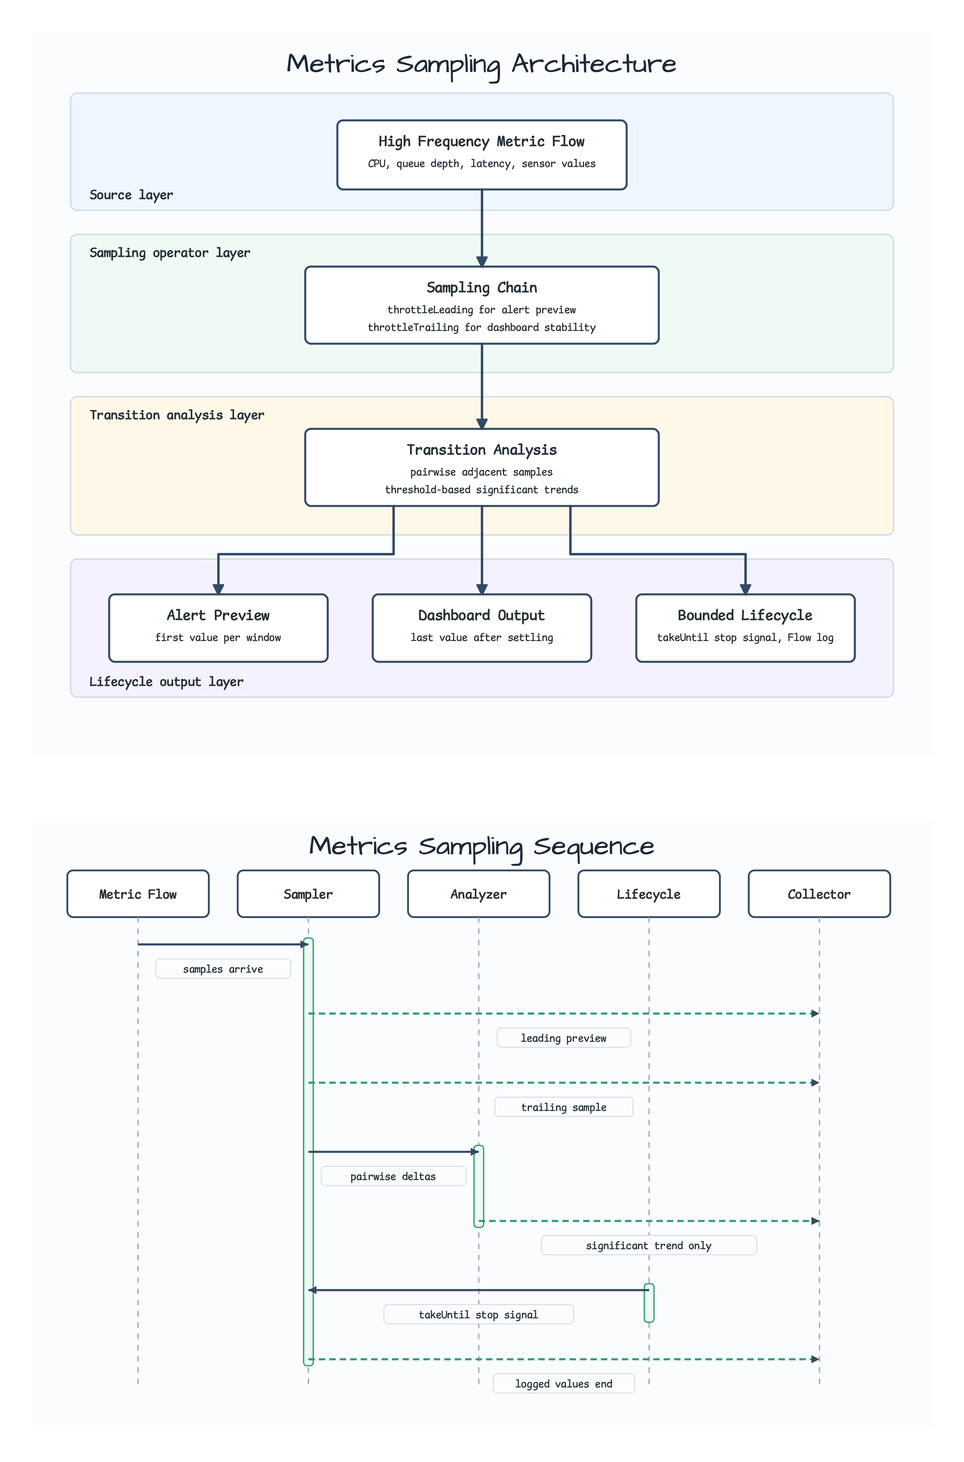
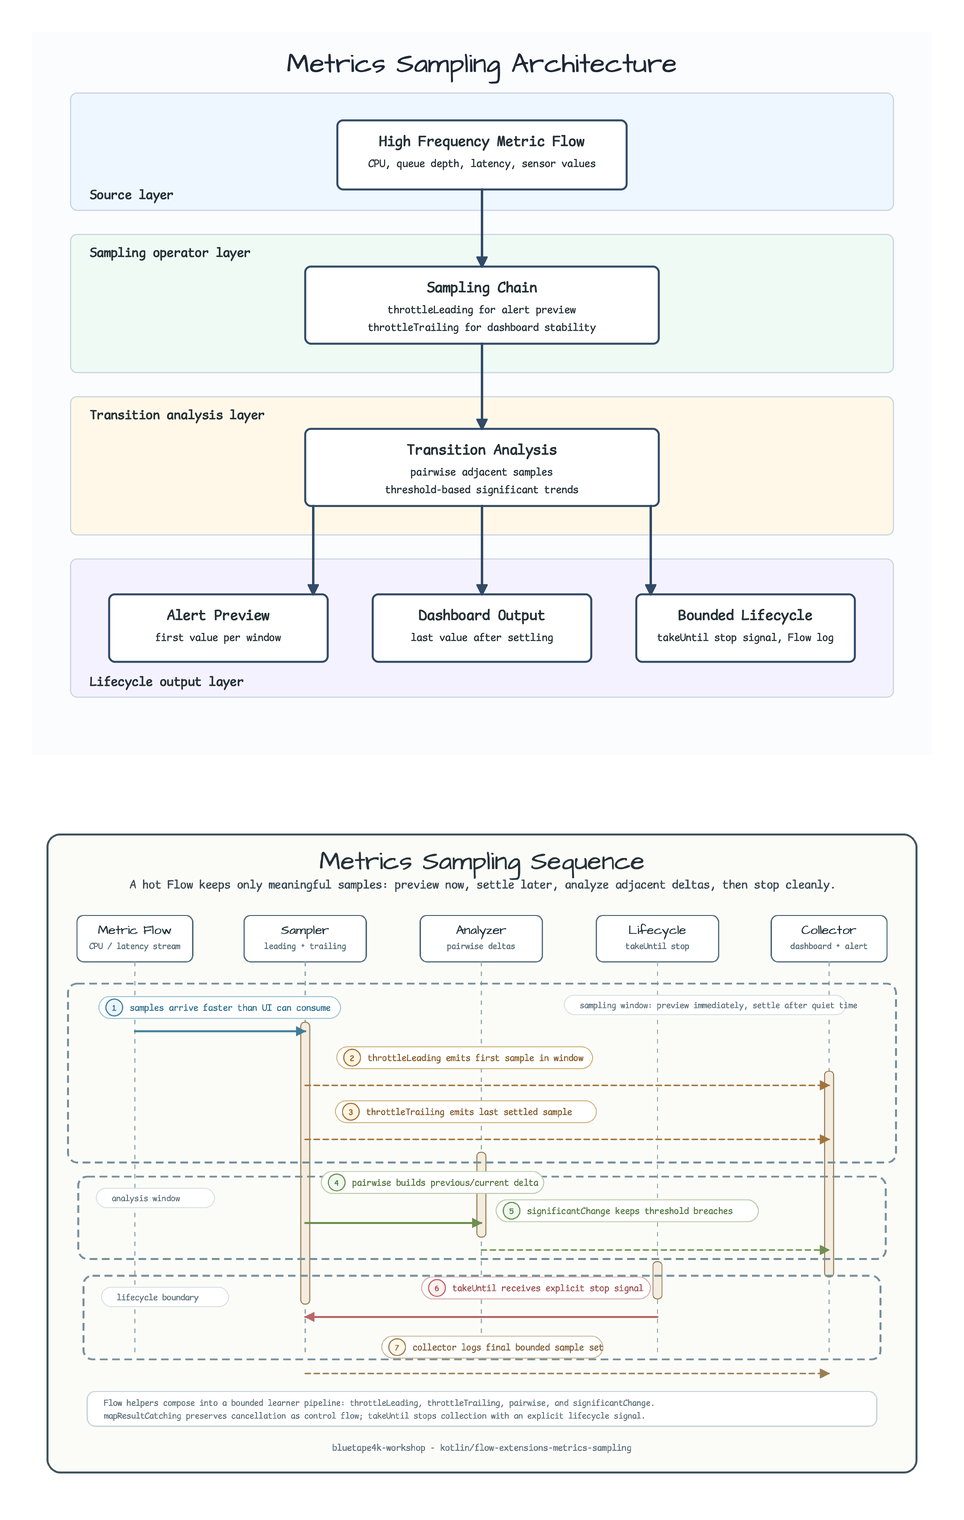
docs: align metrics diagrams with best-practices
Refresh the Flow metrics sampling diagrams so the sequence asset matches the local best-practices sequence family and the architecture connectors are auditable by the diagram checklist.

Constraint: diagram work must satisfy bluetape4k-diagram checklist, repo README validators, and full-size visual inspection.

Rejected: keep the minimal validator-only sequence diagram | it passed mechanically but did not match the best-practices visual standard.

Confidence: high

Scope-risk: narrow

Directive: Future sequence diagrams should start from the best-practices sequence family, not from a bare lifeline sketch.

Tested: xmllint; diagram connector, geometry, endpoint, mixed-corner, and sequence-style audits; README architecture and sequence validators; git diff --check; full-size PNG visual inspection.

Not-tested: full Gradle suite, documentation-only diagram/style update.

diff --git a/docs/review/2026-06-29-issue-304-flow-metrics-sampling-code-review.md b/docs/review/2026-06-29-issue-304-flow-metrics-sampling-code-review.md
@@ -20,7 +20,7 @@ Six review lanes checked correctness, cancellation behavior, Kotlin/API style, l
 
 - Reworked the cancellation regression to demonstrate `significantChangeResults`, which uses `mapResultCatching` and explicitly rethrows `CancellationException` instead of wrapping it as a `Result.failure`.
 - Kept `takeUntil` coverage focused on normal lifecycle termination through a stop signal.
-- Added top-to-bottom layered diagrams with code-only text cards because the module has no real Redis, broker, database, server, or cache infrastructure.
+- Added top-to-bottom layered architecture and best-practices sequence diagrams with code-only text cards because the module has no real Redis, broker, database, server, or cache infrastructure.
 - Registered the module in README tables, Examples workflow path filters/tasks/artifacts, and async smoke validation.
 
 ## Verification Evidence
@@ -31,9 +31,11 @@ Six review lanes checked correctness, cancellation behavior, Kotlin/API style, l
 - `./scripts/smoke-validate.sh stale-check` passed: 86 active modules, no stale README refs, no broken README image links.
 - `node scripts/validate-readme-language.mjs`, `node scripts/validate-readme-parity.mjs`, `node scripts/validate-readme-architecture-diagrams.mjs`, and `node scripts/validate-sequence-diagrams.mjs` passed.
 - Diagram XML, geometry, endpoint, connector, mixed-corner, and sequence-style audits passed for the new SVGs.
-- Connector audit evidence: architecture `PASS markers=1 connectors=0 cards=5 intrusions=0 crossings=0`; sequence `PASS markers=1 connectors=0 cards=0 intrusions=0 crossings=0`.
-- Mixed-corner audit evidence: `PASS files=2 paths=7 q_bends=0 failures=0`.
-- PNG visual inspection passed for architecture, sequence, and contact sheet.
+- Connector audit evidence: architecture `PASS markers=1 connectors=5 cards=5 intrusions=0 crossings=0`; sequence `PASS markers=5 connectors=7 cards=0 intrusions=0 crossings=0`.
+- Geometry audit evidence: architecture `geometry_failures=0`; sequence `geometry_failures=0`.
+- Mixed-corner audit evidence: `PASS files=2 paths=12 q_bends=0 failures=0`.
+- Sequence style audit evidence: `PASS sequence_files=1`.
+- PNG visual inspection passed for architecture, best-practices sequence, and contact sheet.
 - `actionlint .github/workflows/Examples.yml` passed.
 - `git diff --check` passed.
 
